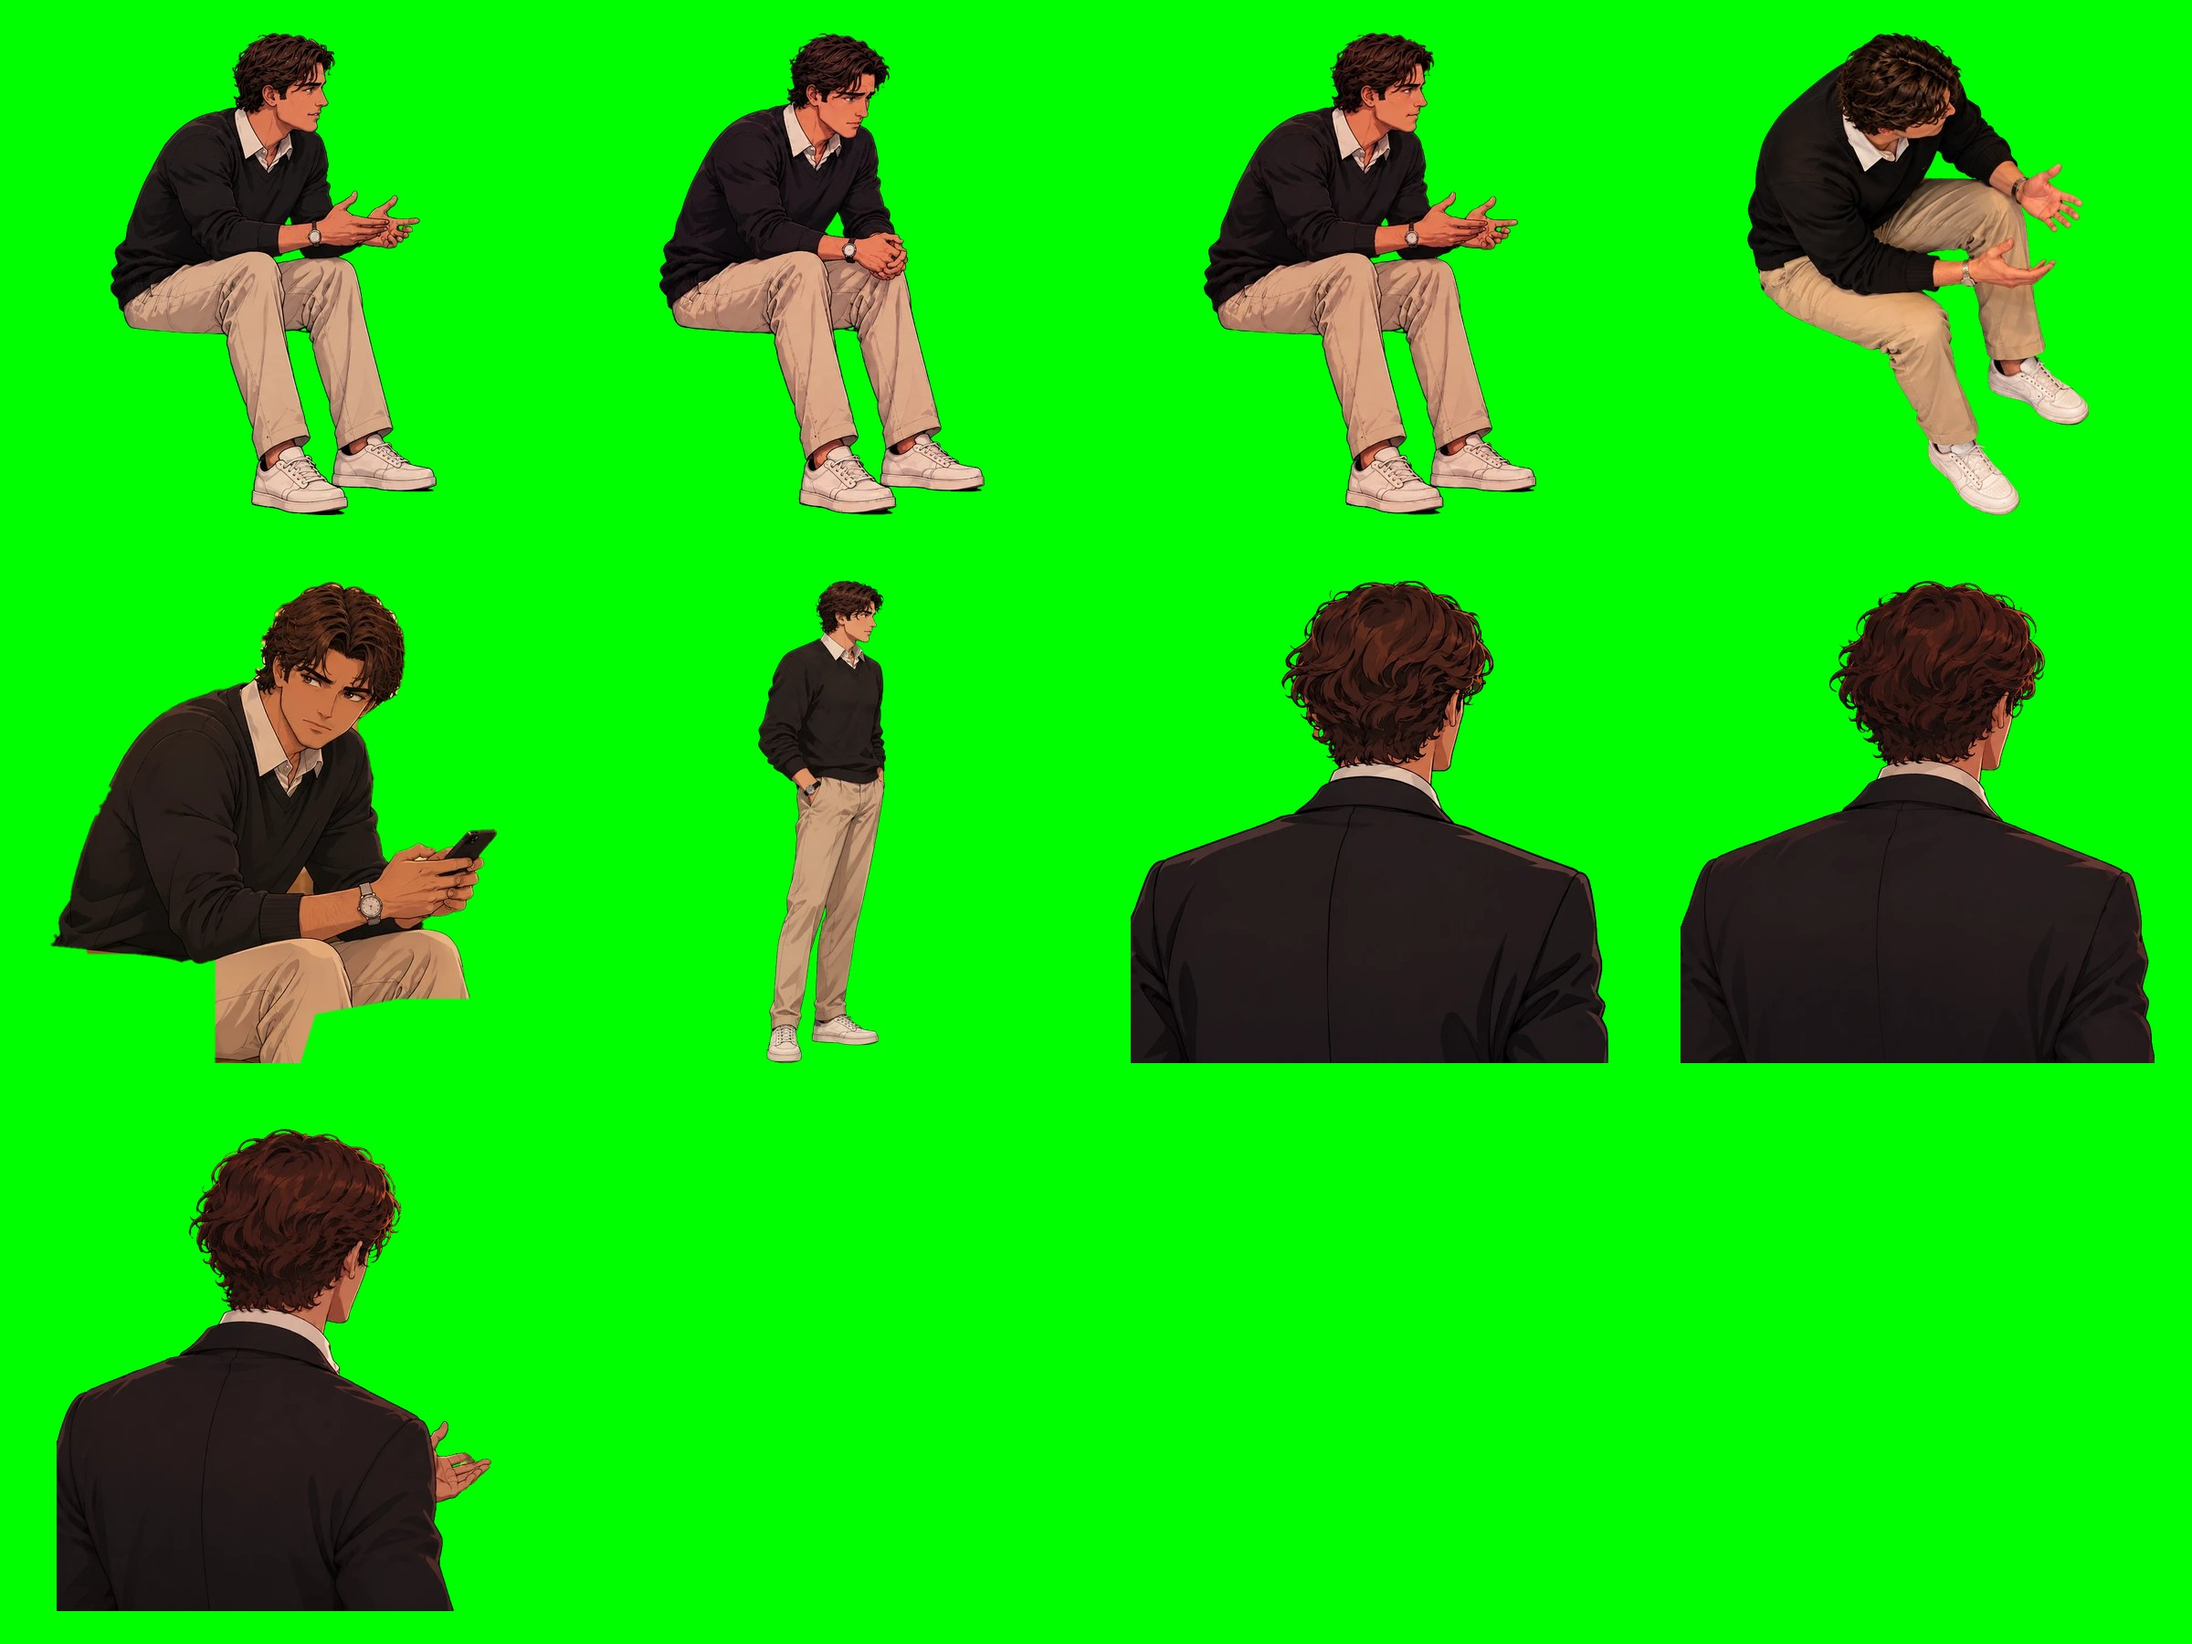
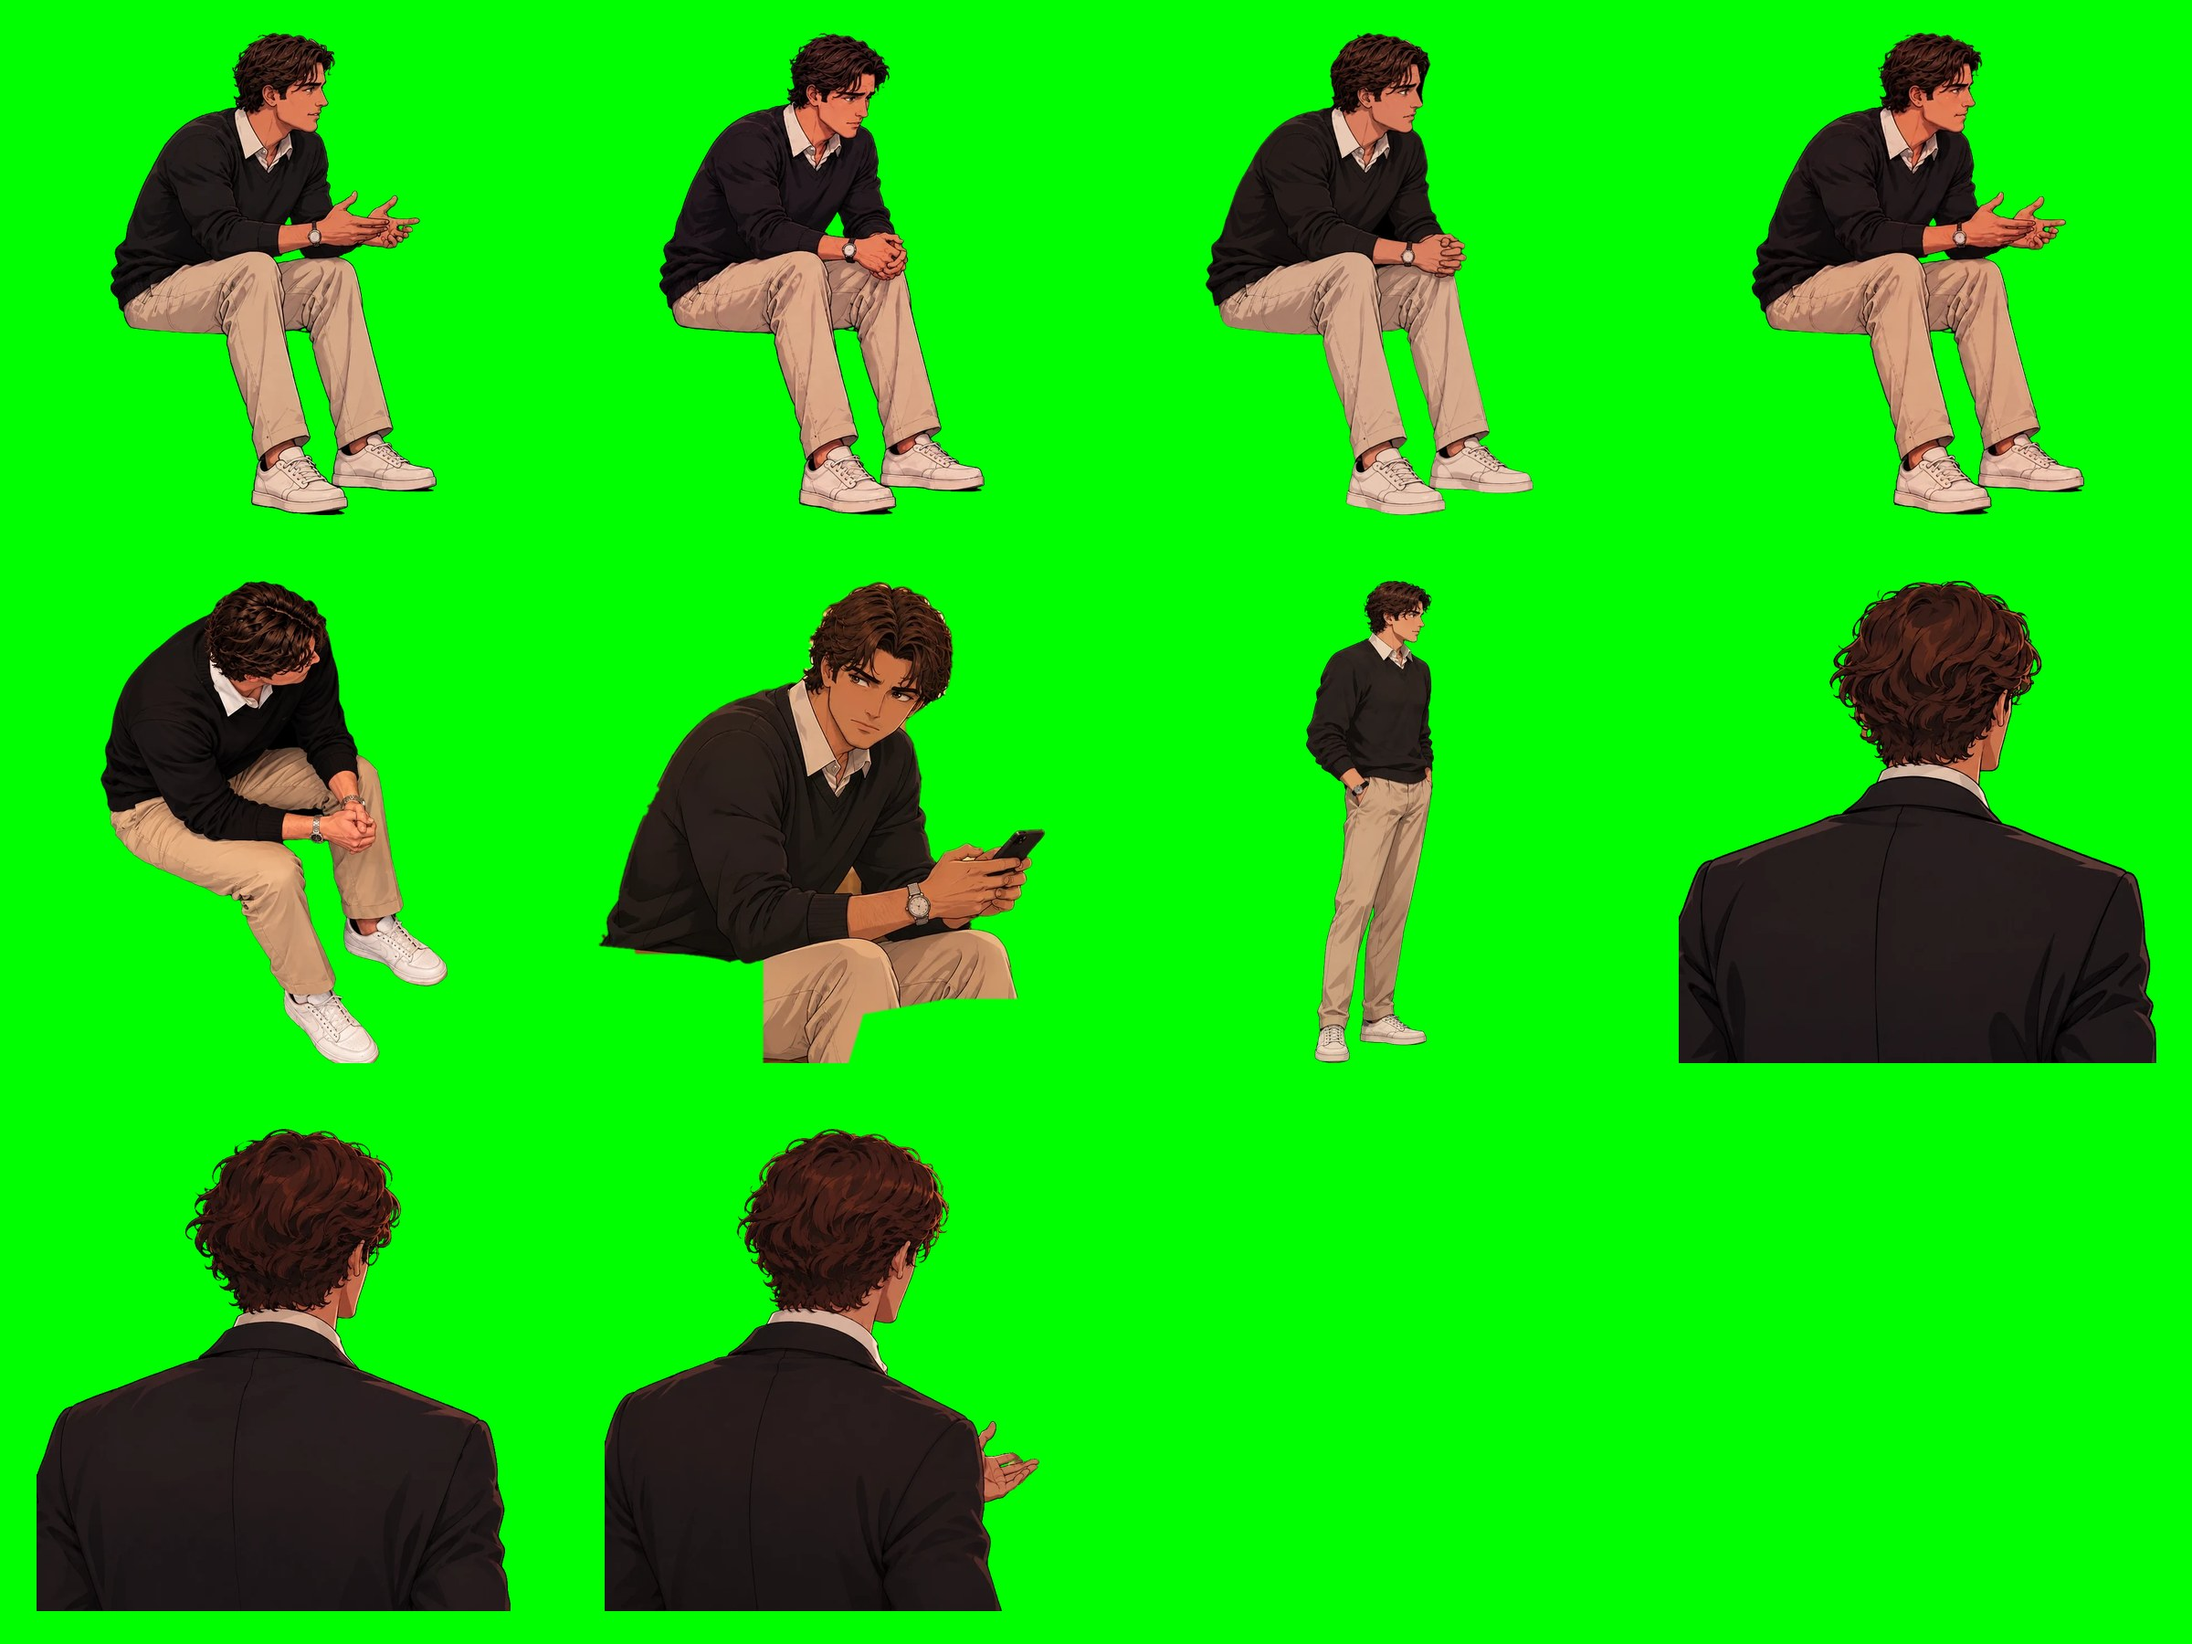
Floor 31 : les images de Justin : Marcus de haut qui pense, Marcus inquiet, la main de Ray et son cell, le selfie d'Amy
Marcus vu de haut, mains jointes, pour lui-même (« We're on in 8 minutes. ») ; Marcus inquiet, mains
jointes, le regard ailleurs (« Guess there's no turning back now. ») ; découpés de leur fond noir.
L'écran coupé en deux : la moitié de Ray = sa main qui tient son cell (le fond vert enlevé), le fil
dans l'écran ({duo} : hand {img, ar, screen}) ; la photo d'Amy = son selfie au miroir des toilettes.
La feuille de poses de Marcus refaite avec les deux nouvelles poses.

Claude-Session: https://claude.ai/code/session_0111jBtqBMiczcQzHW2YX2M6

diff --git a/heist.js b/heist.js
@@ -48,7 +48,8 @@
   // close: Leo on the lock screen, Leo's text on it (Justin's picture, its text changed)
   const pic = (image, front = []) => ({ image, size: PIC, spots: {}, face: {}, ambience: 'crowd', back: [], front });
   // (09/11) the top view: the empty armchairs + the two of them cut out, placed as in Justin's top view
-  const TOP = [{ src: 'marcus_top', x: 430.5, y: 860, w: 481, who: 'pa' }, { src: 'ray_top', x: 1247, y: 883, w: 534, who: 'pb' }];
+  const TOP = [{ src: 'marcus_top2', x: 430.5, y: 860, w: 488, who: 'pa' },   // (10/11) Justin's: Marcus from above, hands clasped, to himself
+     { src: 'ray_top', x: 1247, y: 883, w: 534, who: 'pb' }];
   const topv = (front = []) => ({ ...pic('bg/lobby_top.webp', front), props: TOP });
   SCENES.h_top = topv();
   SCENES.h_top_buzz = topv([R(698, 398, 58, 96, 'rgba(225,238,255,.5)', { r: 10, glow: '0 0 70px 28px rgba(200,225,255,.75)', who: 'pa' })]);
@@ -87,7 +88,7 @@
   SCENES.h_bank = { image: 'bg/bank_open.webp', size: PIC, spots: {}, face: {}, back: [], front: [] };
   // Ray talks (his hand out), Marcus listens (hands together): when Ray has the line
   // (10/11) both turned inward: Marcus worried, to himself (hands clasped); Ray not reacting (chin on his hand, eyes down)
-  SCENES.h_two_w = chairs([{ src: 'marcus_listen', x: 497.5, y: 883, w: 547, who: 'pa' }, RAY]);
+  SCENES.h_two_w = chairs([{ src: 'marcus_worried', x: 497.5, y: 883, w: 547, who: 'pa' }, RAY]);   // (10/11) Justin's: worried, looking away
   SCENES.h_two_r = chairs([{ src: 'marcus_listen', x: 497.5, y: 883, w: 547, who: 'pa' }, { src: 'ray_talk', x: 1224.5, y: 876, w: 539, who: 'pb' }]);
   const CLOCK = (x, y) => [C(x, y, 150, '#e5e7eb', { line: '8px solid #111827' }), R(x - 5, y - 55, 10, 55, '#111827', { r: 5, rot: -30, origin: '50% 100%' }), R(x - 4, y - 40, 8, 40, '#111827', { r: 4, rot: -2, origin: '50% 100%' })];
   SCENES.h_side_pa = place({ ambience: 'crowd', back: [R(0, 0, 1920, 1080, '#1b2230'), ...bust(960, 1000, 2.2, P1), glow(1080, 930, 'pa'), R(500, 980, 920, 60, '#5b4636', { r: 8 }), ...CLOCK(960, 150)] });
@@ -272,9 +273,9 @@
     ...at('h_mpocket'), BUZZ, { hush: 1600 },   // Marcus's pocket buzzes: Sarah
     // ---- 15. (10/11) the last text before going in: on the TV, the screen in two, each one's phone in his half. One thing at a
     // time: Sarah's text, Amy's photo; then Marcus answers, then Ray (two answers each, no clock) ----
-    { duo: { pa: { who: 'Sarah' }, pb: { who: 'Amy', heart: true } } }, { hush: 900 },
+    { duo: { pa: { who: 'Sarah' }, pb: { who: 'Amy', heart: true, hand: { img: 'props/ray_hand.webp', ar: 865 / 927, screen: [.096, .0173, .3618, .7001] } } } },   // (10/11) Ray's hand (Justin's); Marcus's to come { hush: 900 },
     { duoIn: ['pa', { text: 'Where are you?' }] }, { hush: 2200 },
-    { duoIn: ['pb', { img: 'stakes/amy.webp' }] }, { hush: 2800 },   // TODO Justin's picture: Amy's joke selfie in the bathroom
+    { duoIn: ['pb', { img: 'bg/amy_selfie.webp' }] }, { hush: 2800 },   // (10/11) Justin's: her joke selfie in the bathroom mirror
     { by: 'pa', clock: 0, choice: [
       { t: 'I love you.', ic: 'love', sh: 'I love you', intent: 'Text Sarah', set: { sarah: 'love' }, then: [{ duoOut: ['pa', 'I love you.'] }, { hush: 1500 }] },
       { t: 'Kiss Leo for me.', ic: 'love', sh: 'Kiss Leo', intent: 'Text Sarah', set: { sarah: 'kiss' }, then: [{ duoOut: ['pa', 'Kiss Leo for me.'] }, { hush: 1500 }] },
@@ -460,7 +461,7 @@
     // (09/11) a player's own pose sheet, one per character (ref/posesheet_<name>.jpg: every cut-out he has in the story, on green,
     // in a grid read row by row): each cell takes the place of that prop. The first one is his face on the pick
     posesheet: {
-      pa: { sheet: 'ref/posesheet_marcus.jpg', grid: [4, 3], poses: ['marcus_sit', 'marcus_listen', 'marcus_sit2', 'marcus_top', 'marcus_phone', 'marcus_stand', 'marcus_elev', 'marcus_elev2', 'marcus_reach'] },
+      pa: { sheet: 'ref/posesheet_marcus.jpg', grid: [4, 3], poses: ['marcus_sit', 'marcus_listen', 'marcus_worried', 'marcus_sit2', 'marcus_top2', 'marcus_phone', 'marcus_stand', 'marcus_elev', 'marcus_elev2', 'marcus_reach'] },
       pb: { sheet: 'ref/posesheet_ray.jpg', grid: [4, 3], poses: ['ray_sit', 'ray_talk', 'ray_phone', 'ray_top', 'ray_back', 'ray_point', 'ray_call', 'ray_elev', 'ray_case', 'ray_mask'] },
     },
     pick: { pa: { pose: 'listen', desc: '30-year-old dad with money problems' }, pb: { pose: 'listen', desc: '29, owes a lot of money' } },   // (09/11) who they are, instead of a line

diff --git a/index.html b/index.html
@@ -186,6 +186,10 @@ body.tv #tail::after { display: none; }
 #duo .dh { position: relative; display: flex; flex-direction: column; align-items: center; justify-content: center; gap: 3vh; padding: 4vh 2vw; background: radial-gradient(ellipse at 50% 40%, color-mix(in srgb, var(--c) 18%, transparent), transparent 70%); }
 #duo .dh + .dh { border-left: 2px solid rgba(255,255,255,.08); }
 #duo .dp { width: min(22vw, 34vh); aspect-ratio: 9 / 16; border-radius: 3.2vh; background: #0f0f12; border: .9vh solid #26262b; box-shadow: 0 2vh 6vh rgba(0,0,0,.6); display: flex; flex-direction: column; overflow: hidden; }
+#duo .dhand { position: relative; height: 66vh; background: center / contain no-repeat; flex: none; }
+#duo .dscreen { position: absolute; border-radius: 3.4vh; overflow: hidden; }
+#duo .dp.in { width: 100%; height: 100%; aspect-ratio: auto; border: 0; border-radius: 0; box-shadow: none; }
+#duo .dh:has(.dhand) .dh-c { position: absolute; left: 50%; bottom: 4vh; transform: translateX(-60%); z-index: 2; }
 #duo .dp-h { padding: 2.4vh 1vh 1.6vh; text-align: center; font-weight: 800; font-size: 2.6vh; color: #fff; border-bottom: 1px solid #222; }
 #duo .dp-h i { font-style: normal; color: #ff375f; }
 #duo .dp-b { flex: 1; display: flex; flex-direction: column; justify-content: flex-end; gap: 1.2vh; padding: 1.6vh; }
@@ -2840,7 +2844,7 @@ body.watch #choices button, body.watch .looks button { pointer-events: none; }
 <script src="gen.js?v=20261031490000"></script>
 <script src="demos.js?v=20261102210000"></script>
 <script src="pirate.js?v=20261102250000"></script>
-<script src="heist.js?v=20261110140000"></script>
+<script src="heist.js?v=20261110160000"></script>
 <script src="mini.js?v=20261102260000"></script>
 <script src="onbstories.js?v=20261028143259"></script>
 <script src="episodes.js?v=20261028143259"></script>
@@ -2909,7 +2913,11 @@ const duoEl = () => { let e = document.getElementById('duo'); if (!e) { e = docu
 function duoSet(d) {
   const el = duoEl(); duoNow = d || null; document.body.classList.toggle('duoon', !!d && !(ROLE === 'watch' && hostTv));
   if (!d || (ROLE === 'watch' && hostTv)) { el.hidden = true; el.innerHTML = ''; return; }
-  el.innerHTML = Object.entries(d).map(([k, c]) => `<div class="dh" data-k="${k}" style="--c:${(castOf(k) || {}).color || '#ff9a4d'}"><div class="dp"><div class="dp-h">${esc(c.who || '')}${c.heart ? ' <i>❤</i>' : ''}</div><div class="dp-b"></div></div><div class="dh-c"></div></div>`).join('');
+  // c.hand: {img, screen: [left, top, width, height] in fractions of the picture}: his hand holding the phone, the thread in its screen
+  const phone = (c) => `<div class="dp${c.hand ? ' in' : ''}"><div class="dp-h">${esc(c.who || '')}${c.heart ? ' <i>❤</i>' : ''}</div><div class="dp-b"></div></div>`;
+  el.innerHTML = Object.entries(d).map(([k, c]) => `<div class="dh" data-k="${k}" style="--c:${(castOf(k) || {}).color || '#ff9a4d'}">${c.hand
+    ? `<div class="dhand" style="background-image:url('${c.hand.img}');aspect-ratio:${c.hand.ar || 1}"><div class="dscreen" style="left:${c.hand.screen[0] * 100}%;top:${c.hand.screen[1] * 100}%;width:${c.hand.screen[2] * 100}%;height:${c.hand.screen[3] * 100}%">${phone(c)}</div></div>`
+    : phone(c)}<div class="dh-c"></div></div>`).join('');
   el.hidden = false;
 }
 function duoBubble(k, m, out) {
